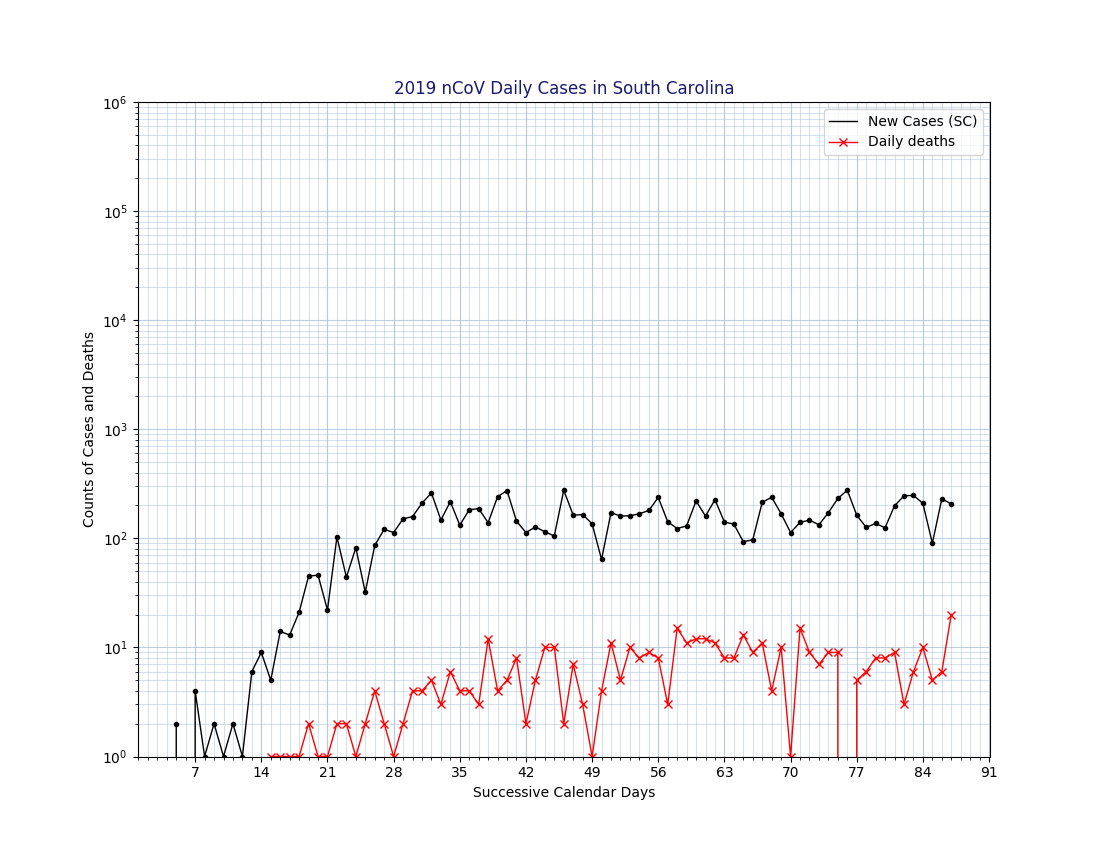
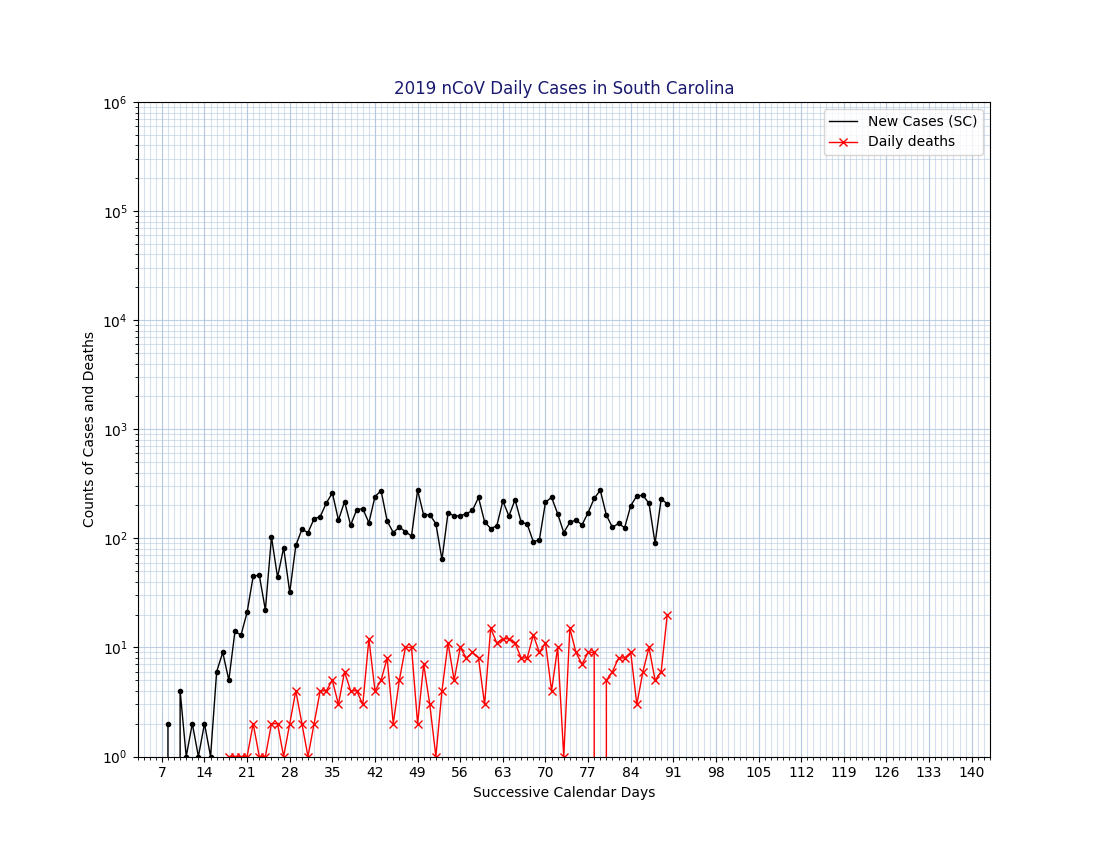
updated app.py

Changed region(s): [[0.1236, 0.1224, 0.8964, 0.9176]]

diff --git a/app.py b/app.py
@@ -12,12 +12,18 @@ def main():
 	''' main function'''
 
 	filename = 'COVID-19 South Carolina Celeration Charts - RAW DATA.csv'
-	df = pd.read_csv(filename)
+
+	# Read the file to a dataframe and make the date column the index
+	df = pd.read_csv(filename, index_col=0)
+	
+	# Change index to datetime
+	df.index = pd.to_datetime(df.index, infer_datetime_format=True)
 
 	# Build plot
 	fig = plt.figure()
 	fig.set_size_inches(11, 8.5)
 
+	# Plot data
 	ax = df['New Cases (SC)'].plot(kind='line', color='k', marker='.', linewidth=1, logy=True, legend=True)
 	ax = df['Daily deaths'].plot(kind='line', color='r', marker='x', linewidth=1, logy=True, legend=True)
 
@@ -28,8 +34,17 @@ def main():
 	ax.yaxis.grid(True, color='lightsteelblue', which='minor', linestyle='-', alpha=0.5)
 	ax.yaxis.grid(True, color='lightsteelblue', which='major', linestyle='-', alpha=0.8)
 
+	# Replace NaN with zeros
+	#df = df.fillna(0)
+	#df = df.replace(to_replace=0, value=1)
+	print(df)	
+
 	# Set the range for the x-axis
-	#ax.set_xlim([datetime.date(2020, 3, 1), datetime.date(2020, 7, 20)])
+	ax.set_xlim([datetime.date(2020, 3, 1), datetime.date(2020, 7, 19)])
+	#ax.set_xlim(pd.Timestamp('2020-03-01'), pd.Timestamp('2020-07-19'))
+
+	# Set x-labels
+	ax.set_xticklabels(np.arange(0, 141, 7))
 
 	# Set the location for x-axis ticks
 	ax.xaxis.set_minor_locator(MultipleLocator(1))
@@ -39,9 +54,6 @@ def main():
 	ax.xaxis.grid(True, color='lightsteelblue', which='minor', linestyle='-', alpha=0.5)
 	ax.xaxis.grid(True, color='lightsteelblue', which='major', linestyle='-', alpha=0.8)
 
-	# Set x-labels
-	ax.set_xticklabels(np.arange(0, 141, 7))
-
 	# Label axes and title
 	plt.title('2019 nCoV Daily Cases in South Carolina', color='midnightblue')
 	plt.xlabel('Successive Calendar Days')
@@ -49,7 +61,8 @@ def main():
 
 	plt.savefig('SC-chart.png')
 	plt.show()
-	
+
+	plt.close()	
 
 
 if __name__ == '__main__':
